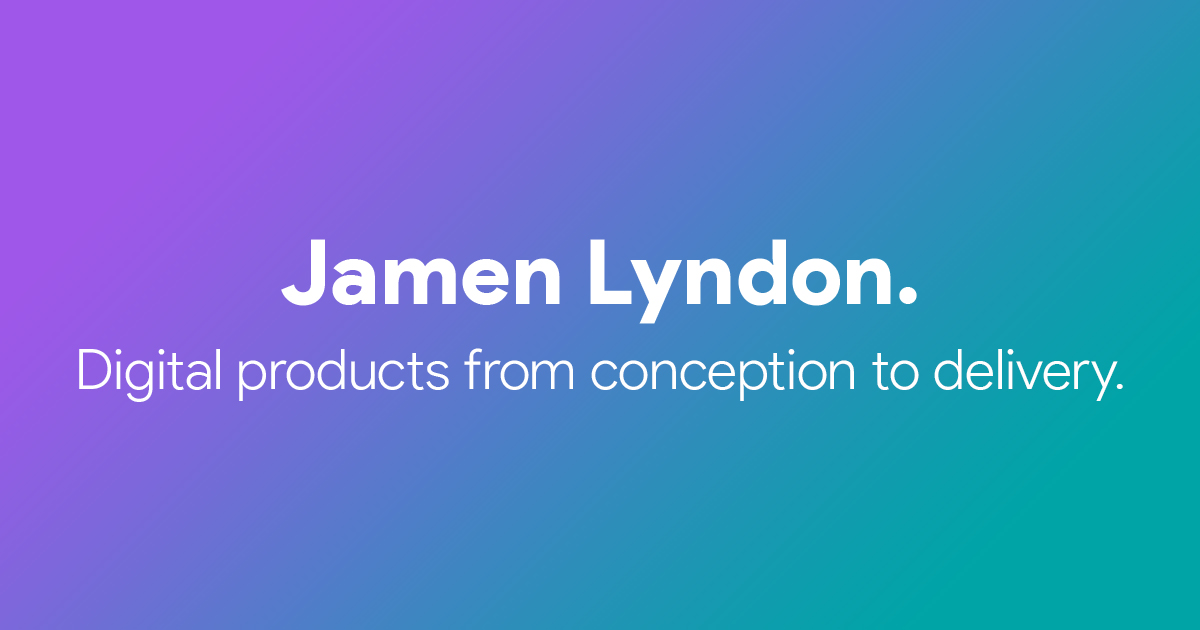
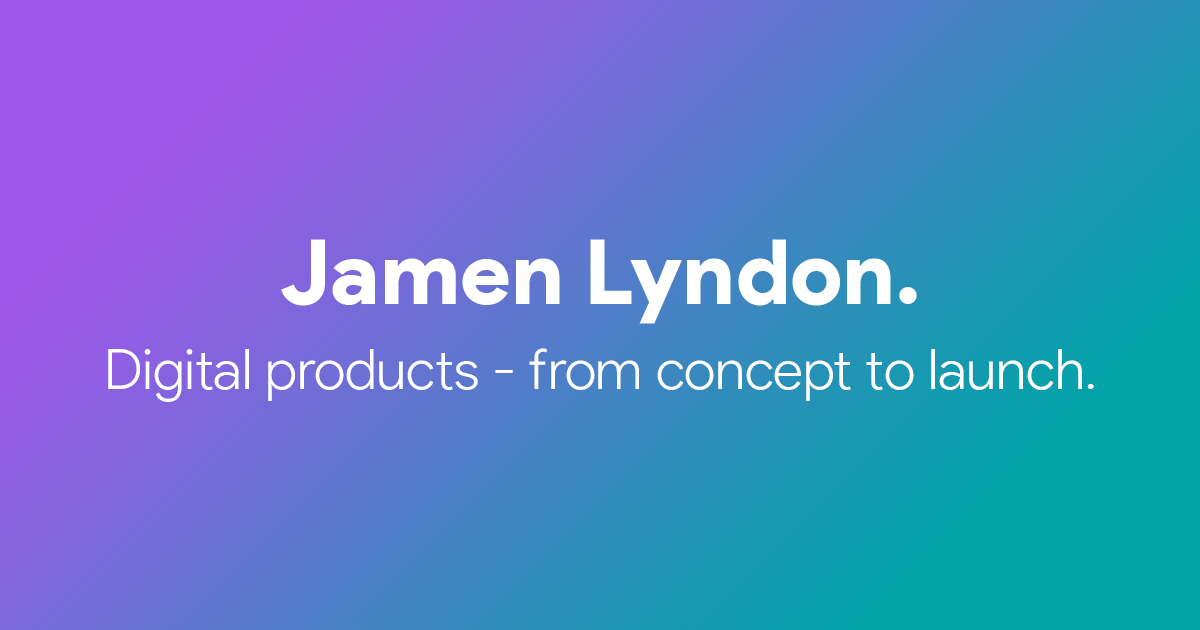
Fixes

Changed region(s): [[0.0617, 0.5429, 0.925, 0.6333]]

diff --git a/js/script.js b/js/script.js
@@ -440,30 +440,8 @@ function gradientBackgrounds_update(xMousePos, yMousePos) {
 }
 
 
-
-
 /* Entry animations
-----------------------------------------------------------------------------------------------------
-Animations are triggered when an element is on screen or above the viewport.
-
-To use these simply add the following classes to any HTML element:
-	'entry'
-		Required.
-		Adds an entry animation.
-
-	'entry-slideUp', 'entry-slideDown', 'entry-slideLeft', 'entry-slideRight'
-		Required.
-		Choose the entry animation style, defined in /css/partials/_animations.scss
-
-	'entry-inView100', 'entry-inView75', 'entry-inView50', 'entry-inView25', 'entry-inView0'
-		Optional (defaults to 0%).
-		Choose what percentage of the element must be visible past the viewport bottom to trigger the animation.
-
-	'entry-triggerOnLoad', 'entry-triggerOnLoadMobile'
-		Optional.
-		Trigger the animation on page load (use the mobile class to apply this only for mobile devices).
-*/
-
+---------------------------------------------------------------------------------------------------- */
 // Init
 function entryAnimations_init() {
 	// Delay for fade in
@@ -478,7 +456,6 @@ function entryAnimations_update() {
 	// Animation delay
 	let delay = 0;
 
-	// --------------------------------------------------
 
 	// Get the trigger on load entry animation items
 	const entryItems_triggerOnLoad = document.querySelectorAll('.entry.entry-triggerOnLoad:not(.entry-triggered)');
@@ -495,9 +472,8 @@ function entryAnimations_update() {
 		delay = 200;
 	});
 
-	// --------------------------------------------------
 
-	// Get the trigger on load entry animation items for mobile only
+	// Get the trigger on load entry animation items (for mobile only)
 	if (window.innerWidth <= 1024) {
 		const entryItems_triggerOnLoadMobile = document.querySelectorAll('.entry.entry-triggerOnLoadMobile:not(.entry-triggered)');
 
@@ -514,20 +490,16 @@ function entryAnimations_update() {
 		});
 	}
 
-	// --------------------------------------------------
 
 	// Get the untriggered entry animation items
 	const entryItems = document.querySelectorAll('.entry:not(.entry-triggered)');
 
 	// For each item
 	entryItems.forEach(item => {
-		// Check 100%, 75%, 50%, 25%, 0% (based on classname)
-		// of the item's height past the viewport bottom to trigger showing item
+		// Check 100%, 75%, 50%, 25%, 0% (based on classname) of the item's height past the viewport bottom to trigger showing item
 		let showItem = false;
 		const viewportBottom = (window.innerHeight + window.scrollY);
 
-		/* FIX: Calculate absolute top position safely across all browsers
-		-------------------------------------------------- */
 		// Dynamically get the zoom scale from the body (defaults to 1 if not set)
 		const computedZoom = parseFloat(window.getComputedStyle(document.body).zoom) || 1;
 
@@ -580,7 +552,6 @@ function entryAnimations_update() {
 
 			// If the item is 100% ABOVE the viewport, then don't delay it - just show it straight away.
 			// This helps because the page can load already scrolled pretty far down the page.
-			// FIX: Swapped out getBoundingClientRect layout calculation check here too
 			if (window.scrollY > (itemAbsoluteTop + scaledItemHeight)) {
 				delay = 0;
 			}
@@ -599,7 +570,6 @@ function entryAnimations_update() {
 		}
 	});
 }
-
 
 
 /* Links

diff --git a/index.html b/index.html
@@ -24,7 +24,7 @@
 		<title>Jamen Lyndon - Portfolio</title>
 		<meta charset='utf-8'>
 		<meta name='viewport' content='width=device-width, initial-scale=1'>
-		<meta name='description' content="I create beautiful digital products from conception to delivery.">
+		<meta name='description' content="I create beautiful digital products - from concept to launch.">
 
 		<!-- Favicon -->
 		<link rel='apple-touch-icon-precomposed' sizes='57x57' href='/img/favicon/apple-touch-icon-57x57.png'>
@@ -51,7 +51,7 @@
 		<!-- Social -->
 		<meta property='og:site_name' content='Jamen Lyndon - Portfolio'>
 		<meta property='og:title' content='Jamen Lyndon - Portfolio'>
-		<meta property='og:description' content="Senior full stack developer and ux/ui designer.">
+		<meta property='og:description' content="I create beautiful digital products - from concept to launch.">
 		<meta property='og:url' content='https://jamenlyndon.com'>
 		<meta property='og:type' content='website'>
 		<meta property='og:image' content='https://jamenlyndon.com/img/social.jpg'>
@@ -131,7 +131,7 @@
 
 					<h1 class='entry entry-slideUp'>Hello. <span>My name's Jamen.</span></h1>
 
-					<h2 class='entry entry-slideUp'>I create beautiful digital&nbsp;products from conception&nbsp;to&nbsp;delivery.</h2>
+					<h2 class='entry entry-slideUp'>I create beautiful digital&nbsp;products -&nbsp;from&nbsp;concept&nbsp;to&nbsp;launch.</h2>
 					<div class='buttons entry entry-slideUp'>
 						<a href='#projects' class='button secondary large'><span>View projects</span></a>
 						<a href='#contact' class='button secondary large'><span>Let's talk</span></a>
@@ -149,7 +149,7 @@
 
 						<div class='tags' tag-id='isotope-projects'>
 							<a href='javascript:;' class='button primary medium' tag='software'><span>Software</span></a>
-							<a href='javascript:;' class='button primary medium' tag='uxui'><span>UX/UI<div class='optional'> Design</div></span></a>
+							<a href='javascript:;' class='button primary medium' tag='uxui'><span>UX/UI <div class='optional'>Design</div></span></a>
 							<a href='javascript:;' class='button primary medium' tag='ecommerce'><span>eCommerce</span></a>
 							<a href='javascript:;' class='button primary medium' tag='wordpress'><span>WordPress</span></a>
 							<a href='javascript:;' class='button primary medium selected' tag='all'><span>All Projects</span></a>
@@ -578,7 +578,7 @@
 
 						<div class='tags' tag-id='isotope-experience'>
 							<a href='javascript:;' class='button primary medium' tag='techlead'><span>Tech<div class='optional'>nical</div> Lead</span></a>
-							<a href='javascript:;' class='button primary medium' tag='reactnext'><span>React<div class='optional'>.js</div> / Next.js</span></a>
+							<a href='javascript:;' class='button primary medium' tag='reactnext'><span>React<div class='optional'>.js</div> / Next<div class='optional'>.js</div></span></a>
 							<a href='javascript:;' class='button primary medium' tag='software'><span>Software</span></a>
 							<a href='javascript:;' class='button primary medium' tag='designsystem'><span>Design System</span></a>
 							<a href='javascript:;' class='button primary medium' tag='fintech'><span>Fin<div class='optional'>ancial </div>Tech<div class='optional'>nology</div></span></a>

diff --git a/css/_partials/_animations.scss b/css/_partials/_animations.scss
@@ -20,8 +20,7 @@ To use these simply add the following classes to any HTML element:
 		Trigger the animation on page load (use the mobile class to apply this only for mobile devices).
 */
 .entry {
-	/* Slide up
-	-------------------------------------------------- */
+	// Slide up
 	&.entry-slideUp {
 		transform: translateY($gap-2-5);
 		transition: transform $transition-slow ease, opacity $transition-slow ease;

diff --git a/css/_partials/_typography.scss b/css/_partials/_typography.scss
@@ -1,7 +1,5 @@
 /* Fonts
 ---------------------------------------------------------------------------------------------------- */
-// Product Sans
-
 // Light
 @font-face {
 	font-family: 'Product Sans';
